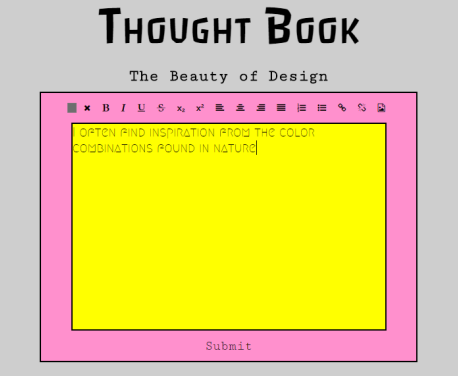
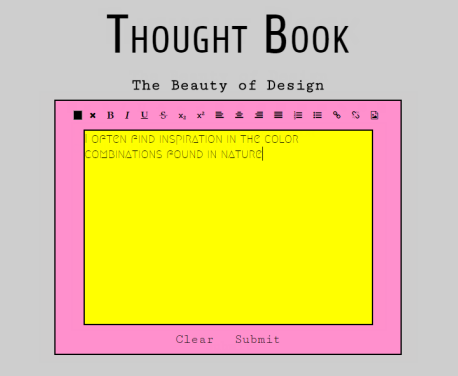
Update Thought Book title font
Update Thought Book preview picture on homepage Projects page

Changed region(s): [[0.0611, 0.1755, 0.917, 0.9654], [0.214, 0.0, 0.5502, 0.1463], [0.5808, 0.0, 0.7948, 0.1463]]

diff --git a/thought-book/index.html b/thought-book/index.html
@@ -5,7 +5,7 @@
     <meta name="description" content="WYSIWYG online journal tool">
     <meta name="keywords" content="WYSIWYG,journal,diary,thought,blog,editor">
     <meta name="viewport" content="width=device-width, initial-scale=1.0">
-    <link href="https://fonts.googleapis.com/css?family=Cutive+Mono|Megrim|Passero+One" rel="stylesheet">
+    <link href="https://fonts.googleapis.com/css?family=Cutive+Mono|Megrim|Share" rel="stylesheet">
     <link href="style.css" rel="stylesheet">
     <link rel="shortcut icon" type="image/x-icon" href="favicon.ico">
     <script>

diff --git a/thought-book/style.css b/thought-book/style.css
@@ -28,9 +28,10 @@ a {
   left: 0px;
   right: 0px;
   margin: 0px;
-  font-family: 'Passero One', cursive;
+  font-family: 'Share', cursive;
   font-size: 52px;
   font-variant: small-caps;
+  font-weight: normal;
   text-align: center;
 }
 
